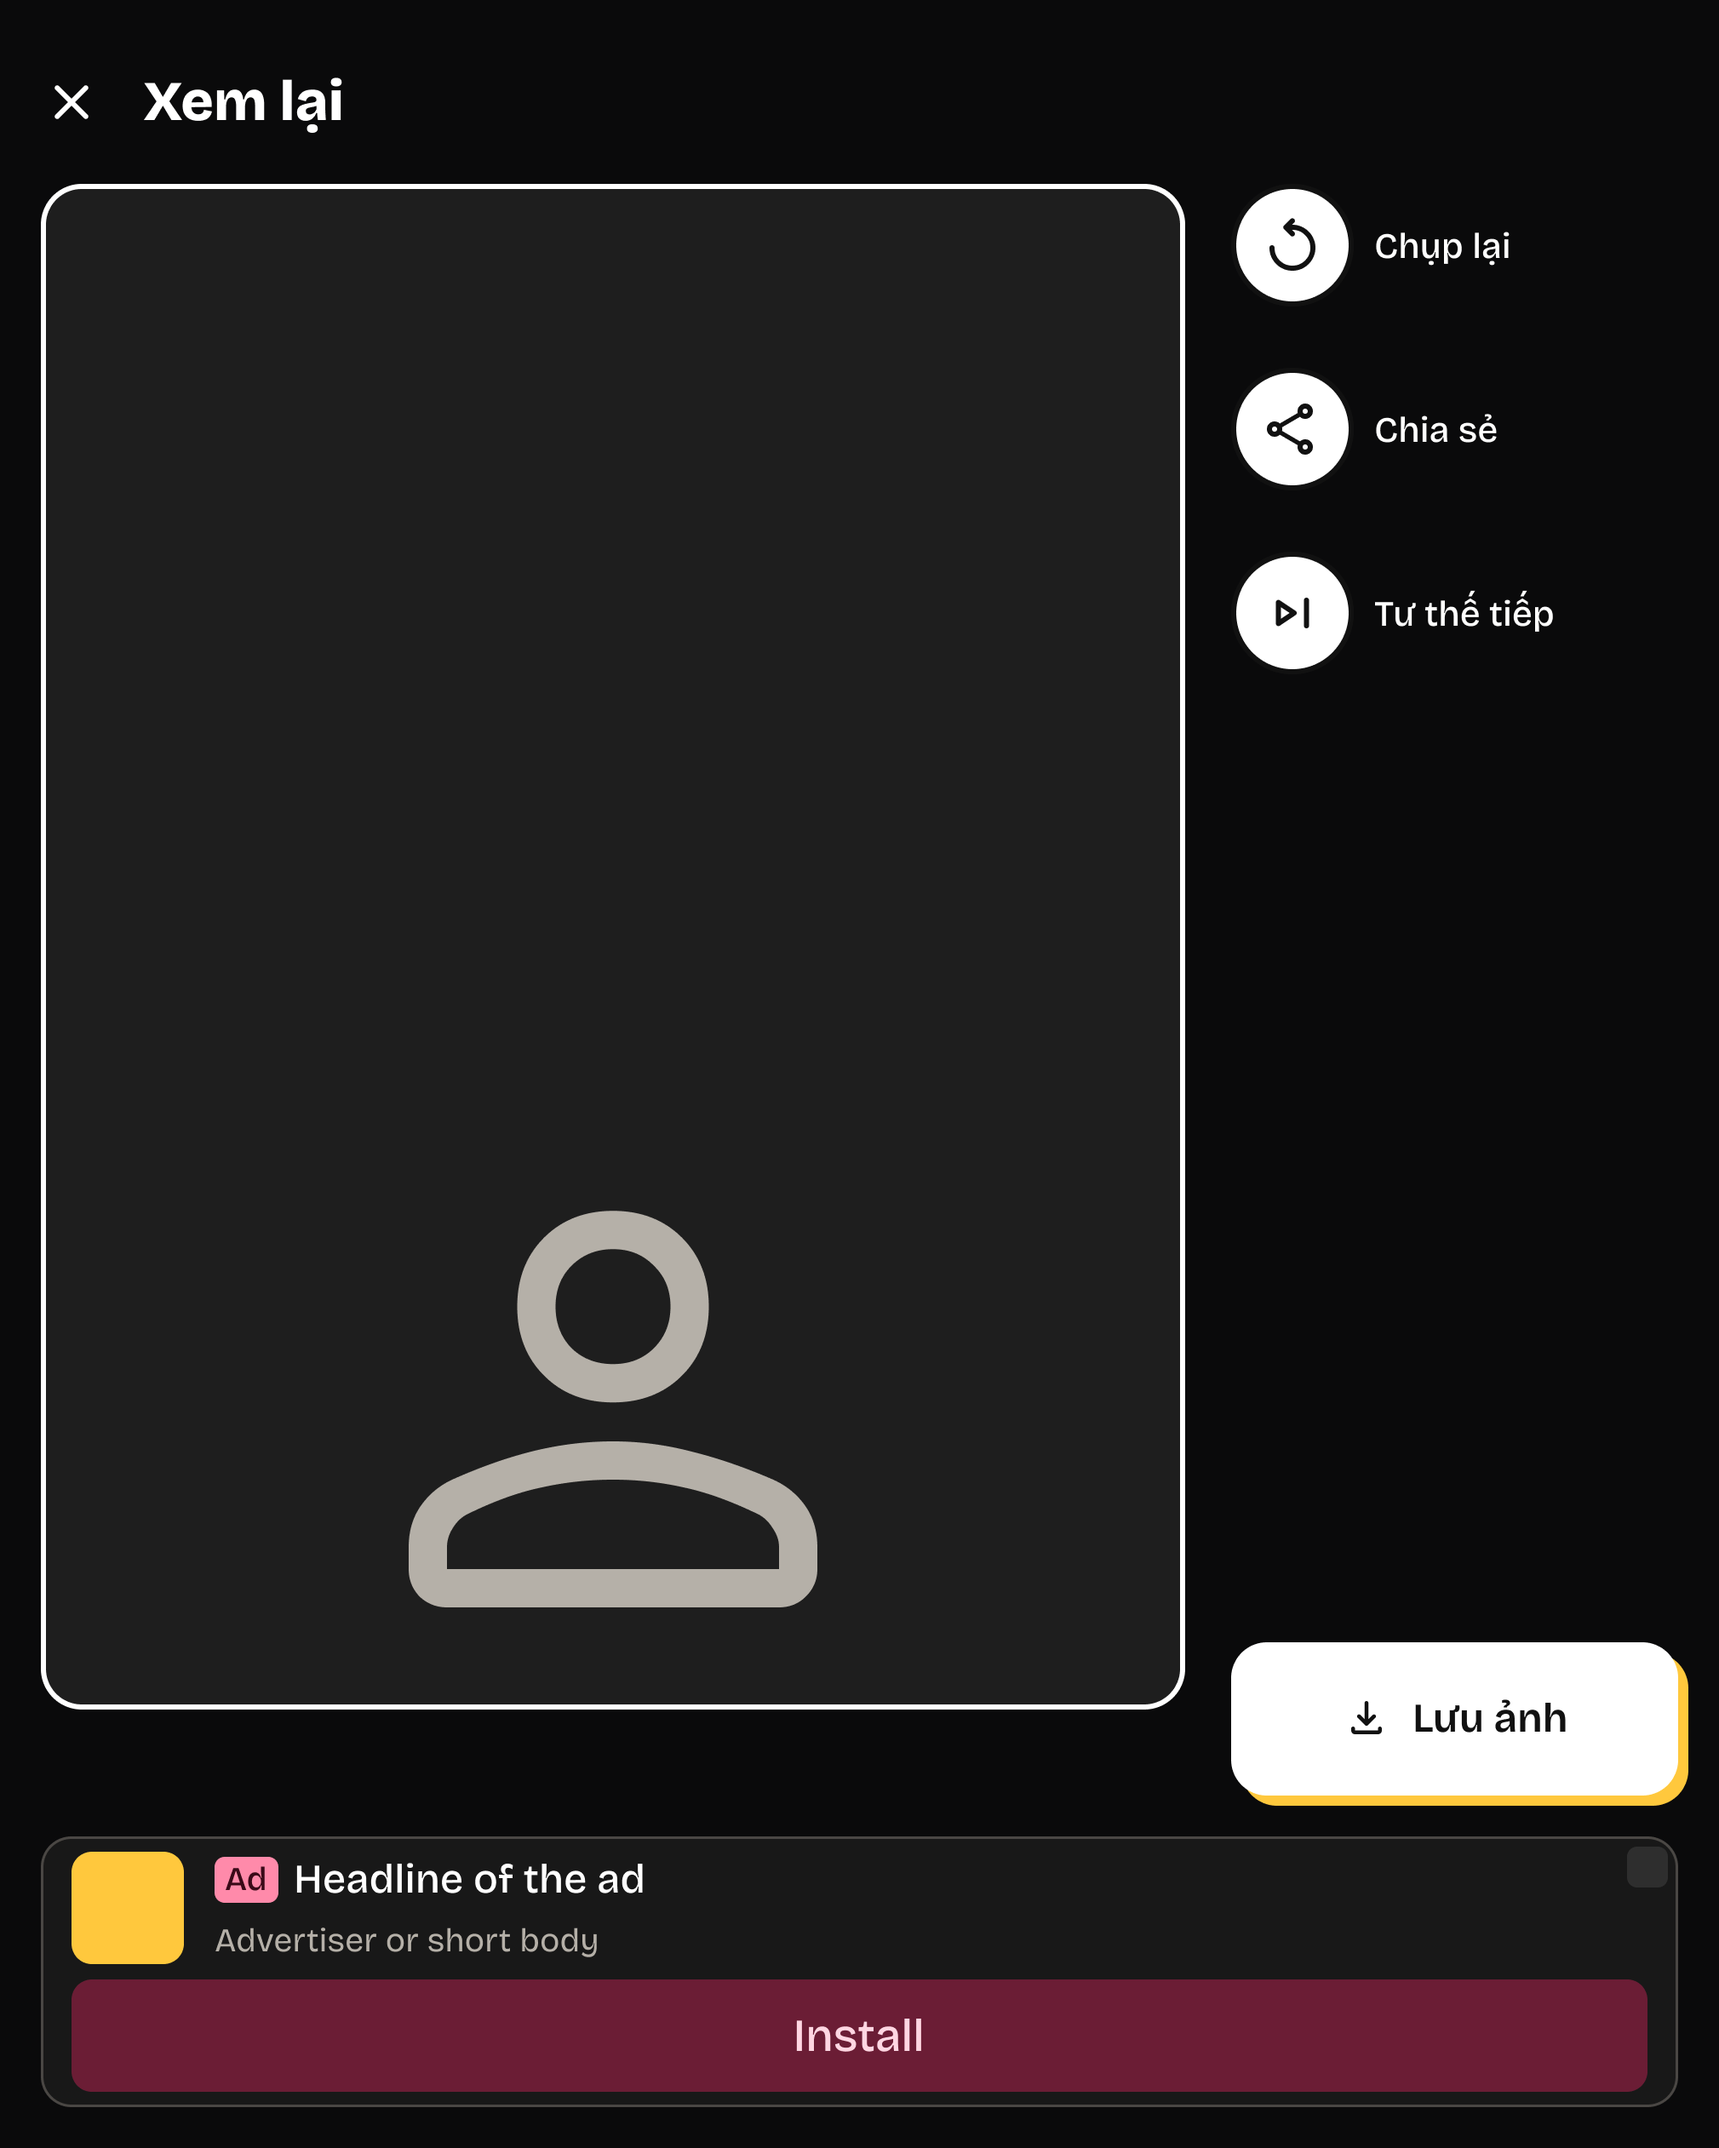
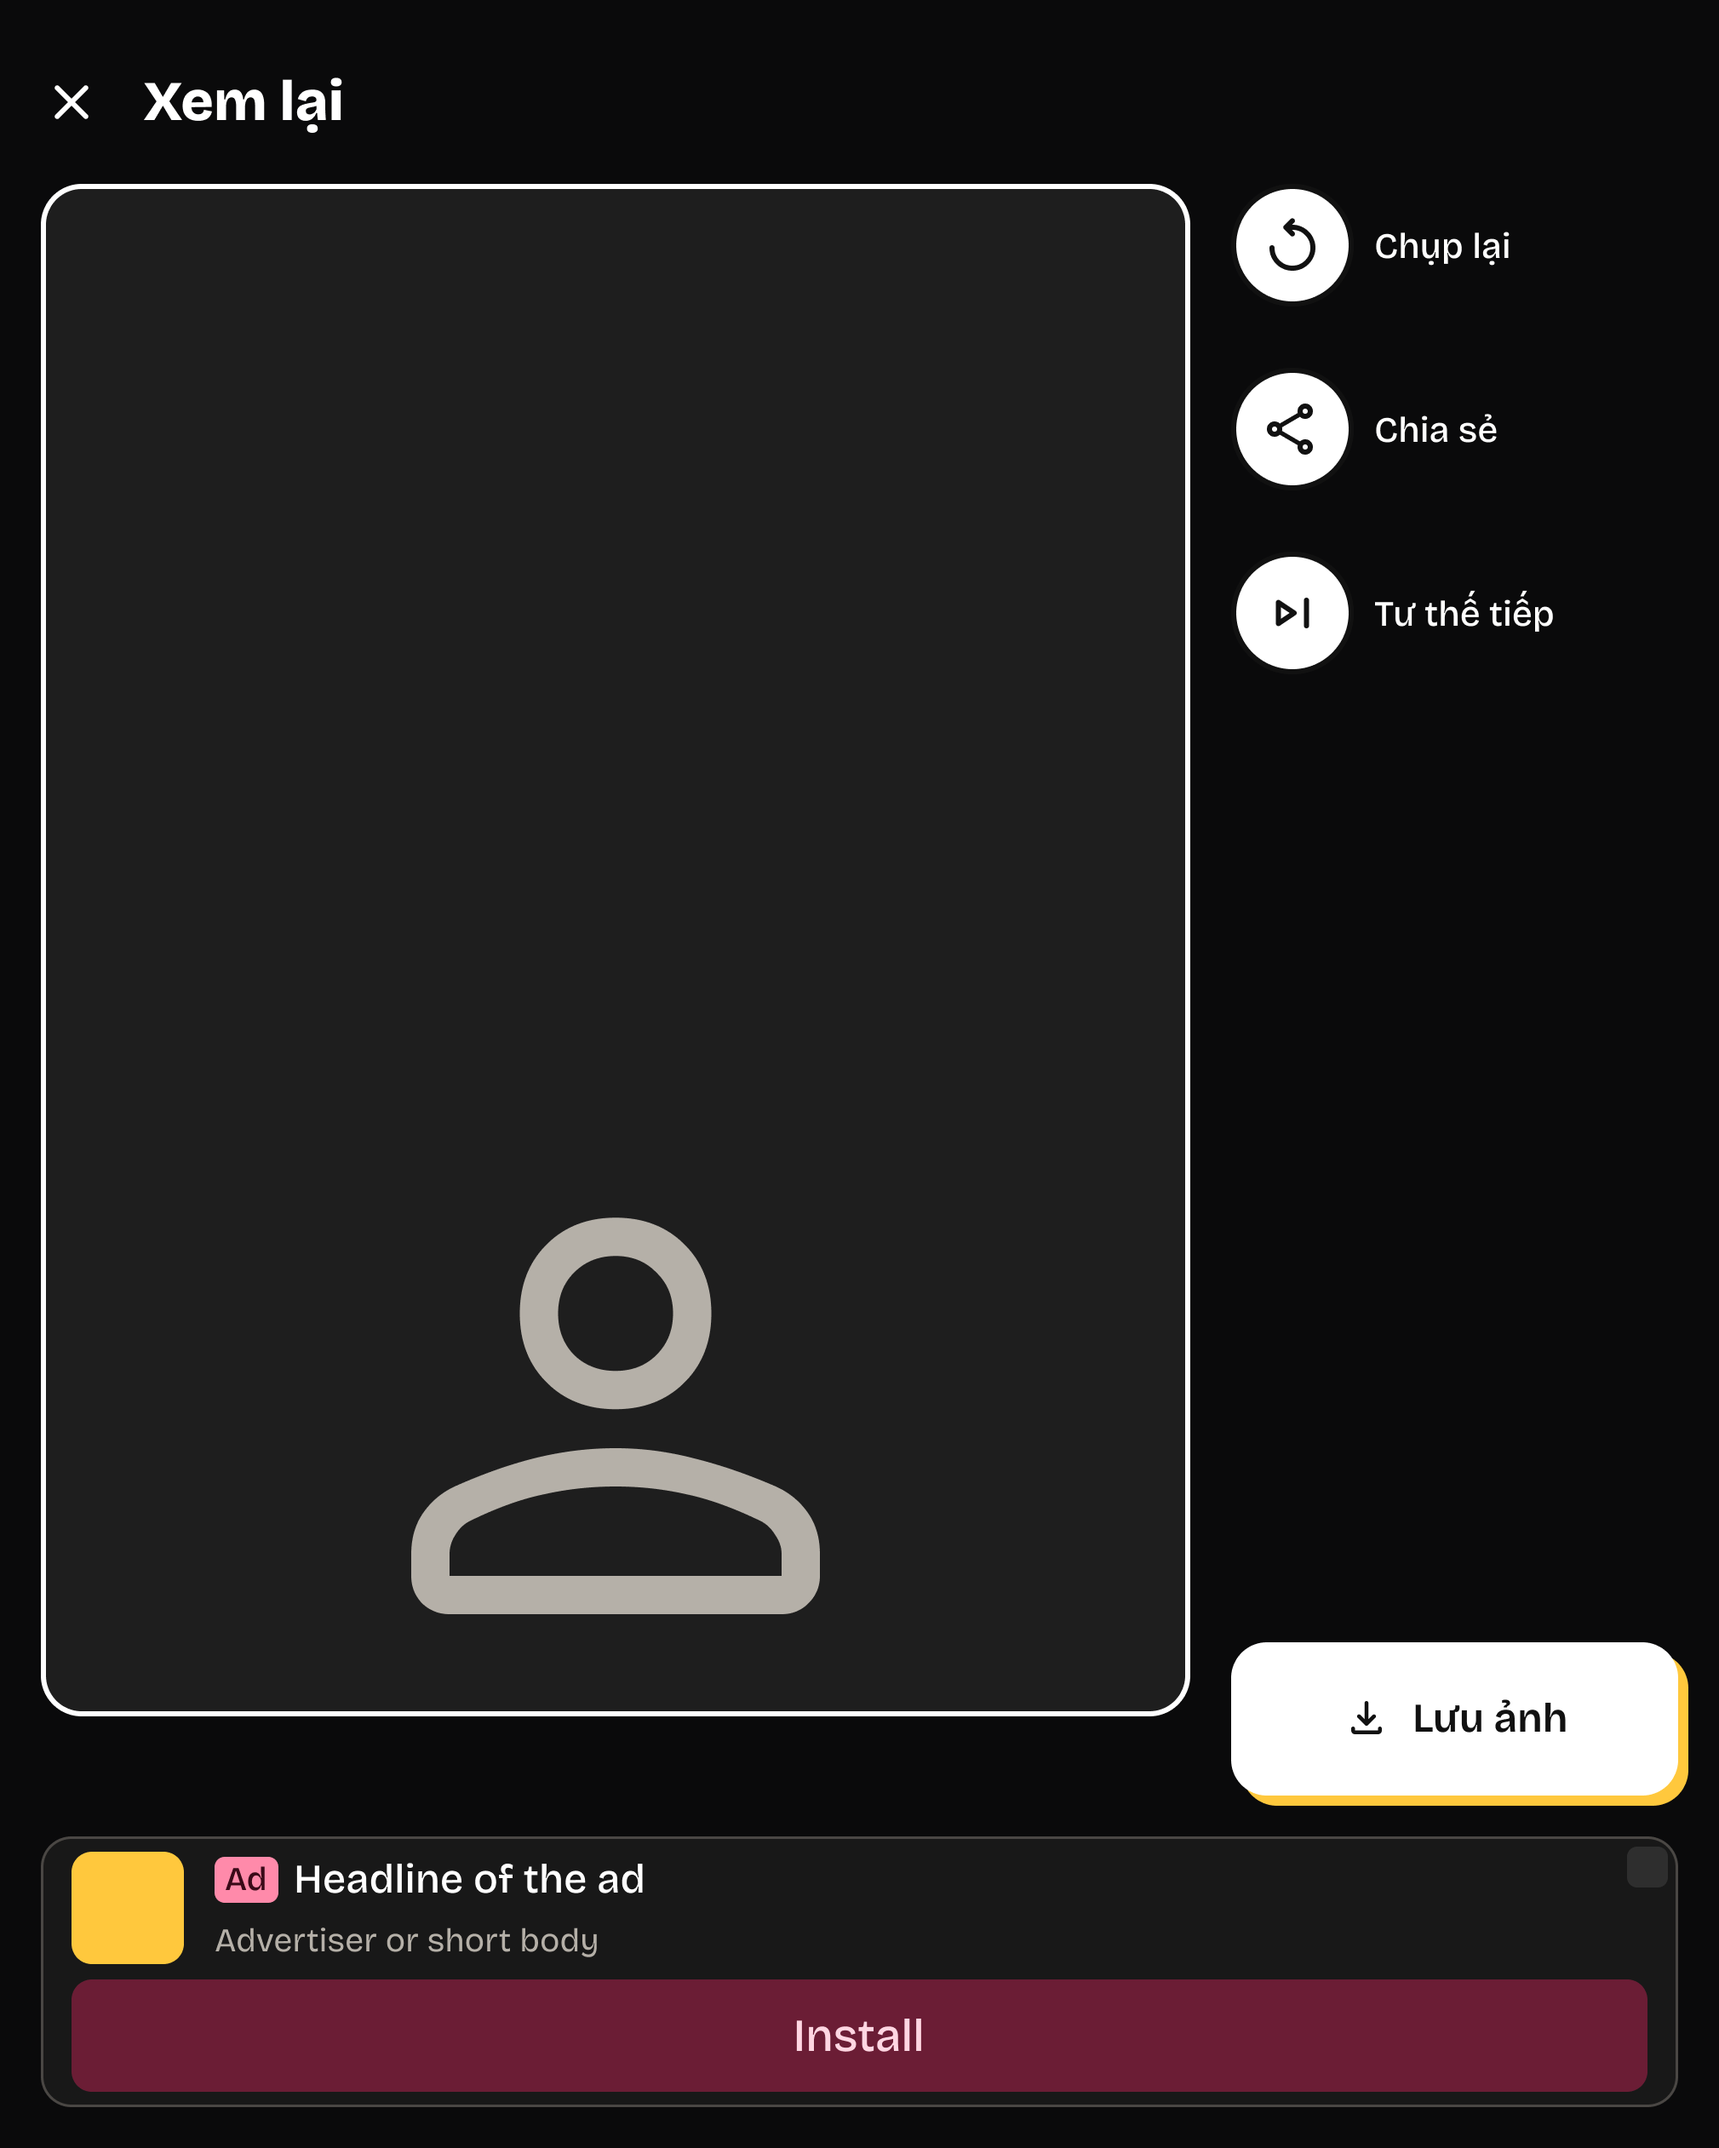
Rà soát lại vòng 2: ảnh màn xem lại gập mở 450 x 600, spec ghi 8 ảnh
Claude-Session: https://claude.ai/code/session_0117CzmWSSft5tzLLXwZoAFs

Changed region(s): [[0.0312, 0.6183, 0.6865, 0.8038], [0.6865, 0.0927, 0.7177, 0.7729], [0.312, 0.5565, 0.3744, 0.6183]]

diff --git a/docs/features/ads/spec.md b/docs/features/ads/spec.md
@@ -315,7 +315,7 @@ Không có cờ mới. Mỗi vị trí có khóa bật tắt Remote Config (câu
 
 22. **Lấy phần mới của khung quảng cáo trong đợt đồng bộ dự án mẫu `bc3e80e..7bf8c3b`** (PR #372, yêu cầu `requests/2026-11-21-dong-bo-quang-cao-mau-7bf8c3b.md`). PR #372 giữ `core/ads` và hai tài liệu ads ở mốc cũ; nhánh `template-sync/take-ads-7bf8c3b` đưa chúng lên (dựng ngày 2026-11-21). Phần mới đổi các điều sau ở cả staging và production (`docs/ops/ads-business-rules.md` của mốc mới):
     - **a. Kích thước native theo thẻ mới của khung** (D-02, mục 5.7). Native nhỏ hai tầng (hàng trên icon và chữ, tầng dưới nút ngang hết thẻ), cao 106 dp ở cỡ chữ mặc định ở mọi bề rộng và mọi hướng, cao thêm khi người dùng đặt chữ lớn; hôm nay khe đáy cao theo cạnh ngắn của cửa sổ (126 dp ở khung chuẩn 411 x 891 dp, 106 dp ở 360 dp, 200 dp ở khung mở gập 673 x 841 dp). Khoảng chừa dưới nội dung: 122 dp ở cỡ chữ mặc định. Lớp thu gọn giữ tổng chiều cao theo cửa sổ (299 dp ở khung chuẩn), phần nội dung giống native nhỏ, vùng ảnh lấy phần còn lại. Native medium cao 250 dp ở mọi khung (hôm nay 320 tới 400 dp theo chiều cao màn hình); app không dùng native medium. Nhãn "Ad" luôn đứng trước tiêu đề ở mọi cỡ chữ, dòng dưới tiêu đề là nhà quảng cáo (không có thì mô tả). Lớp thu gọn tính phần nội dung ở cỡ chữ hiện tại, nên chữ lớn cần cửa sổ cao hơn mới mở (CL-05; ở cỡ chữ mặc định, cửa sổ rộng 411 dp có lớp từ chiều cao 508 dp). Thẻ bước của luồng giới thiệu (250 dp) và thẻ trong lưới thư viện giữ kích thước.
-      - Chỗ đang ghi số cũ: ảnh thiết kế trạng thái `ad` của thư viện, chi tiết, cài đặt, màn xem lại (9 ảnh, kể cả `ReviewScreen_ad_dark_unfolded`) vẽ khe 126 dp; các bước 126 dp của `docs/ops/manual-test.md`, mục 11.1; số đo ghim trong test của plan T-098. Spec màn đã ghi "cao theo khung (D-02)", không có con số.
+      - Chỗ đang ghi số cũ: ảnh thiết kế trạng thái `ad` của thư viện, chi tiết, cài đặt, màn xem lại (8 ảnh, kể cả `ReviewScreen_ad_dark_unfolded`; `PosesScreen_ad-collection_light` không vẽ thanh đáy nên giữ nguyên) vẽ khe 126 dp; các bước 126 dp của `docs/ops/manual-test.md`, mục 11.1; số đo ghim trong test của plan T-098. Spec màn đã ghi "cao theo khung (D-02)", không có con số.
       - Đề xuất của AI: nhận như dự án mẫu (ADR-0045 của mẫu là chuẩn nghiệp vụ chung). Thiết kế trạng thái `ad` vẽ lại theo component thẻ native mới trên Figma rồi lập lại gói bàn giao, trước khi duyệt plan. Screenshot test cùng tên theo thiết kế mới.
       - Trả lời: (Nhật, 2026-11-21) Nhận như mẫu. Vẽ lại thiết kế trạng thái `ad` trên Figma trước khi duyệt plan.
     - **b. Khoảng chừa khi khe đáy đang tải** (D-04, PR #531 của mẫu). Khe native hiện khung chờ ở lượt nạp đầu, và nội dung chừa đúng chỗ khung chờ chiếm, để khung chờ không đè lên thẻ hay dòng cuối. Nạp lỗi thì khe không vẽ gì, chừa 0; các lượt thử lại sau đó không hiện khung chờ, có quảng cáo mới chừa lại. Khe banner (khi `is_show_native_bottom` tắt, câu 13) cũng vậy: nội dung chừa chiều cao khung banner ngay khi thanh được phép, cả lúc đang tải; nạp lỗi trước quảng cáo đầu thì chừa 0 tới khi có quảng cáo; hôm nay chỉ chừa khi khe đã có quảng cáo. Khóa tắt thì không có thanh, chừa 0. Tiêu chí 3 của KB-6 ở spec poses đang ghi "quảng cáo đang tải thì không chừa khoảng trống; nội dung chỉ được chừa chỗ khi khe đã có quảng cáo", trái luật mới.
@@ -381,3 +381,4 @@ Không có cờ mới. Mỗi vị trí có khóa bật tắt Remote Config (câu
 | 2026-11-21 | AI | Yêu cầu đồng bộ khung quảng cáo của dự án mẫu lên `7bf8c3b` (`requests/2026-11-21-dong-bo-quang-cao-mau-7bf8c3b.md`); thêm câu 22 và một dòng ở mục 2. Nhật chọn trong phiên (AI ghi): nhận kích thước native mới, nhận thư viện không có lớp nổi, vẽ lại thiết kế trạng thái `ad` trước khi duyệt plan. Chuyển `changed`, chờ Nhật trả lời ý b, c, d, f |
 | 2026-11-21 | Nhật | Trả lời câu 22 ý b, c, d, f theo đề xuất của AI (AI ghi): nhận khoảng chừa khi đang tải, khe nhường chỗ lớp thu gọn, một quảng cáo neo đáy mỗi màn; hàm biết trước hành động có thưởng có trong khung, app không dùng. Lời của Nhật: chọn "Nhận như mẫu" (ý b) và "Nhận cả ba" (ý c, d, f) khi được hỏi. Sửa tiêu chí 3 và thêm tiêu chí lớp nổi ở KB-6 của spec poses. Chờ Nhật xác nhận |
 | 2026-11-21 | Nhật | Theo rà soát độc lập PR #374 (AI ghi): câu 22 ý e ghi sai luật MC-13 (thư viện chỉ mất lớp nổi khi ô lưới bật); hỏi lại, Nhật chọn "Theo MC-13". Thêm ý g: chi tiết tư thế không có lớp nổi, Nhật chọn "Không có lớp nổi". Sửa ý a (app không dùng medium; nhãn "Ad", CL-05 theo cỡ chữ), ý b (khe banner cũng chừa khi đang tải), ý c (khi nào lớp tính là mở), dòng ở mục 2. Chờ Nhật xác nhận |
+| 2026-11-21 | AI | Theo rà soát lại PR #374 vòng 1, 2: câu 22 ý g đặt sau ý f, nêu các bước lớp nổi của `manual-test.md` phải sửa; ý a ghi 8 ảnh thiết kế. Thiết kế trạng thái `ad` đã vẽ lại trên Figma, chờ Nhật duyệt. Không đổi câu trả lời nào. Chờ Nhật xác nhận |

diff --git a/docs/features/camera/design/README.md b/docs/features/camera/design/README.md
@@ -103,7 +103,7 @@ Dấu ba chấm là một ký tự (`…`).
 | Xem lại: nút chính | `PrimaryButton` `download` | `secondary` (tối: trắng), `onSecondary` | | Rộng hết, cách đáy `Spacing.lg` |
 | Xem lại: lưu lỗi | `Snackbar` | `inverseSurface`, `inverseOnSurface`, `inversePrimary` | | Trên nút chính `Spacing.md` |
 | Xem lại: hỏi bỏ ảnh | `ConfirmDialog` trên lớp mờ 50% | `surface`, viền `outline` | | Rộng 331 |
-| Xem lại: thanh đáy native | `BottomAdBarScaffold` của `:core:ads` (component Figma `NativeAdSmall`, theo `NativeAdCard` cỡ `SMALL`); không có lớp native thu gọn nổi (spec ads, câu 19, ý e) | Theo khung, chế độ tối: nền `surfaceContainerLow`, viền `outlineVariant` 1, icon `secondaryContainer`, nhãn "Ad" `tertiary`, nút `tertiaryContainer` | Theo khung | Khe cao theo nội dung (theo khung, `docs/ops/ads-business-rules.md`, D-02): 106 ở cỡ chữ mặc định ở mọi khung; thẻ hai tầng: hàng trên icon 44, nhãn "Ad" 13 sp trước tiêu đề 16 sp một dòng, dòng dưới 13 sp một dòng; tầng dưới CTA ngang hết thẻ cao 44 chữ 18 sp; cách mép trái, phải, đáy `Spacing.md`; nội dung chừa 122 ở đáy (cả khung mở gập). Điện thoại: ảnh co lại theo chỗ còn lại, giữ 3:4: 370 x 493 ở khung chuẩn (bố cục có sẵn của màn: ảnh, `Spacing.lg`, hàng nút phụ, `Spacing.md`, nút chính, 20 trên thanh); hàng nút phụ ở y 605, nút chính ở y 689 (nút chính trong code cao 56, frame vẽ 60, nên khoảng giữa hai hàng trên frame là 12). Gập mở: thanh 641 x 106 rộng hết dưới cả ảnh và cột phải; ảnh 448 x 597, giới hạn theo bề rộng cột ảnh như code vẽ; cột phải từ x 482 rộng 175; nút chính cách thanh 20 (lề dưới của nút chính trong code; frame vẽ 16) |
+| Xem lại: thanh đáy native | `BottomAdBarScaffold` của `:core:ads` (component Figma `NativeAdSmall`, theo `NativeAdCard` cỡ `SMALL`); không có lớp native thu gọn nổi (spec ads, câu 19, ý e) | Theo khung, chế độ tối: nền `surfaceContainerLow`, viền `outlineVariant` 1, icon `secondaryContainer`, nhãn "Ad" `tertiary`, nút `tertiaryContainer` | Theo khung | Khe cao theo nội dung (theo khung, `docs/ops/ads-business-rules.md`, D-02): 106 ở cỡ chữ mặc định ở mọi khung; thẻ hai tầng: hàng trên icon 44, nhãn "Ad" 13 sp trước tiêu đề 16 sp một dòng, dòng dưới 13 sp một dòng; tầng dưới CTA ngang hết thẻ cao 44 chữ 18 sp; cách mép trái, phải, đáy `Spacing.md`; nội dung chừa 122 ở đáy (cả khung mở gập). Điện thoại: ảnh co lại theo chỗ còn lại, giữ 3:4: 370 x 493 ở khung chuẩn (bố cục có sẵn của màn: ảnh, `Spacing.lg`, hàng nút phụ, `Spacing.md`, nút chính, 20 trên thanh); hàng nút phụ ở y 605, nút chính ở y 689 (nút chính trong code cao 56, frame vẽ 60, nên khoảng giữa hai hàng trên frame là 12). Gập mở: thanh 641 x 106 rộng hết dưới cả ảnh và cột phải; ảnh 450 x 600, giới hạn theo bề rộng cột ảnh như code vẽ (673 trừ ba lề 16 và cột phải 175); cột phải từ x 482 rộng 175; nút chính cách thanh 20 (lề dưới của nút chính trong code; frame vẽ 16) |
 
 - **Thành phần mới cần thêm vào hệ thống thiết kế:** `CameraIconButton`, `StickerChip`, `SelectedBadge`, `PoseThumb`, `StepCard`, `ZoomControl`, `MatchHint`, `AdjustPanel`, `GridOverlay`, `StateMessage`, `SecondaryButton` (xem `sticker.md`, mục 4).
 

diff --git a/docs/features/poses/spec.md b/docs/features/poses/spec.md
@@ -308,3 +308,4 @@ Tư thế premium (yêu cầu 2026-10-31, câu 6): catalog có thêm trường `
 | 2026-11-16 | Nhật | Xác nhận lại sau sửa theo rà soát độc lập PR #353 (AI ghi): `ad_platform` ở mục 6 của spec poses, camera; mục 2 của spec ads ghi thẻ bước và thẻ trong lưới giữ kích thước, lớp thu gọn là vùng ảnh cộng khe đáy D-02. Lời xác nhận của Nhật: chọn "Xác nhận lại" khi được hỏi. Giữ `confirmed` |
 | 2026-11-21 | AI | Câu 22 của spec ads, ý b và ý e (Nhật trả lời trong phiên): tiêu chí 3 của KB-6 chừa chỗ khung chờ khi khe đang tải lượt đầu; thêm tiêu chí thư viện không có lớp nổi khi `is_show_native_collap` bật. Chuyển `changed`, chờ Nhật xác nhận |
 | 2026-11-21 | AI | Theo rà soát độc lập PR #374 và lần hỏi lại Nhật (câu 22, ý e, g của spec ads): tiêu chí lớp nổi của thư viện theo MC-13 (chỉ khi ô lưới bật); tiêu chí 2 thêm chi tiết không có lớp nổi; tiêu chí 3 gồm cả khung banner. Chờ Nhật xác nhận |
+| 2026-11-21 | AI | Theo rà soát lại PR #374: bảng vị trí ghi `pose_detail_bottom` không có lớp nổi (câu 22, ý g của spec ads); tiêu chí 3 của KB-6 nói rõ "lỗi trước quảng cáo đầu". Không đổi câu trả lời nào. Chờ Nhật xác nhận |
